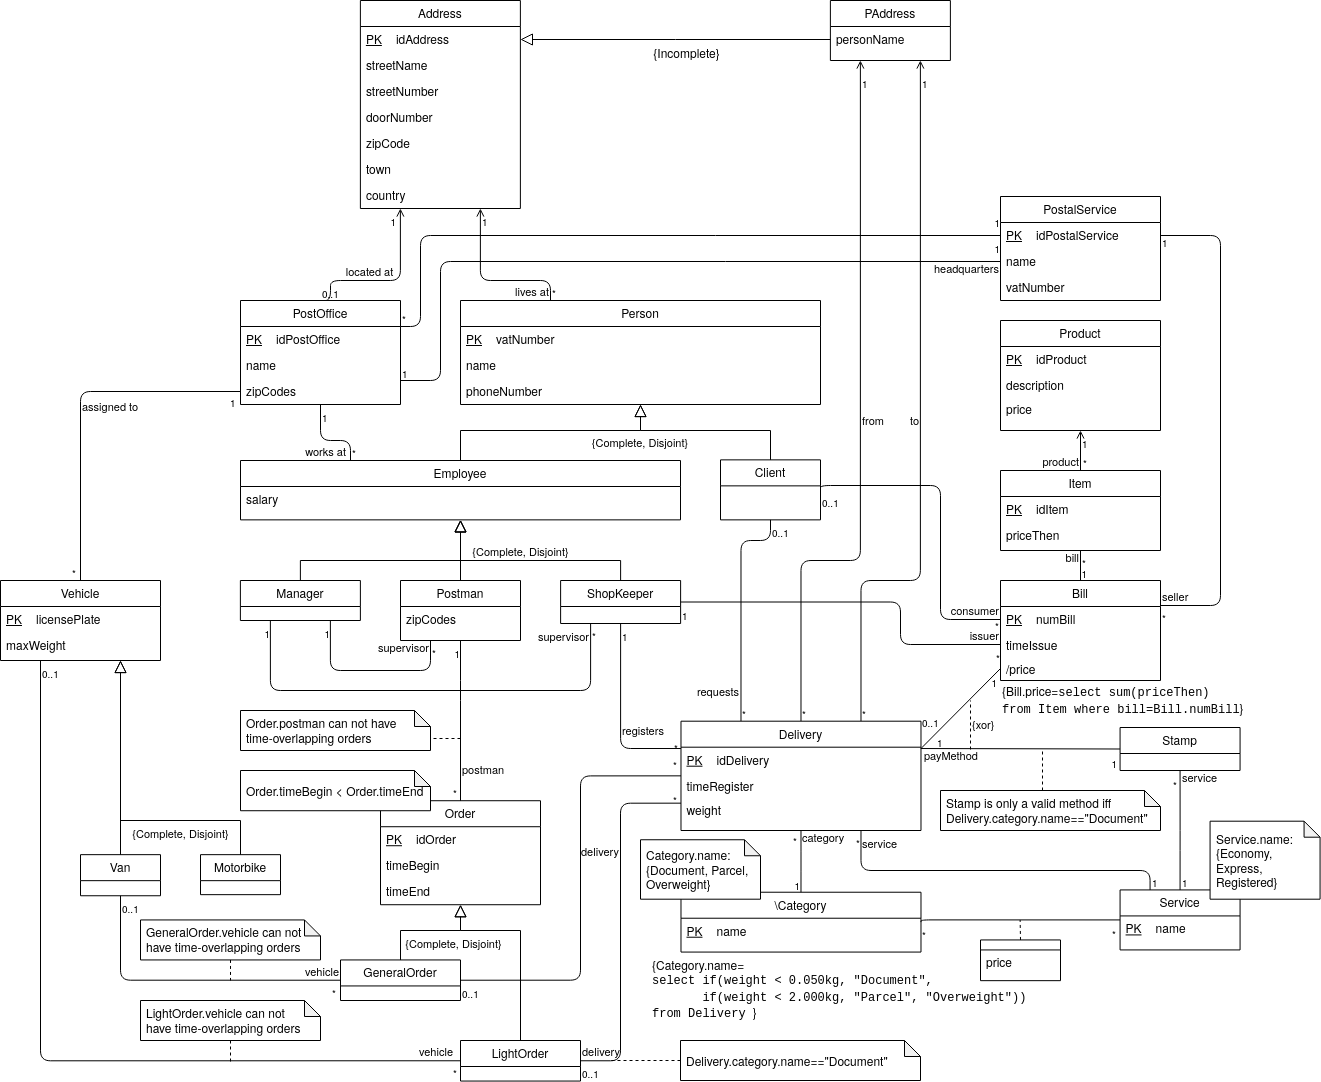
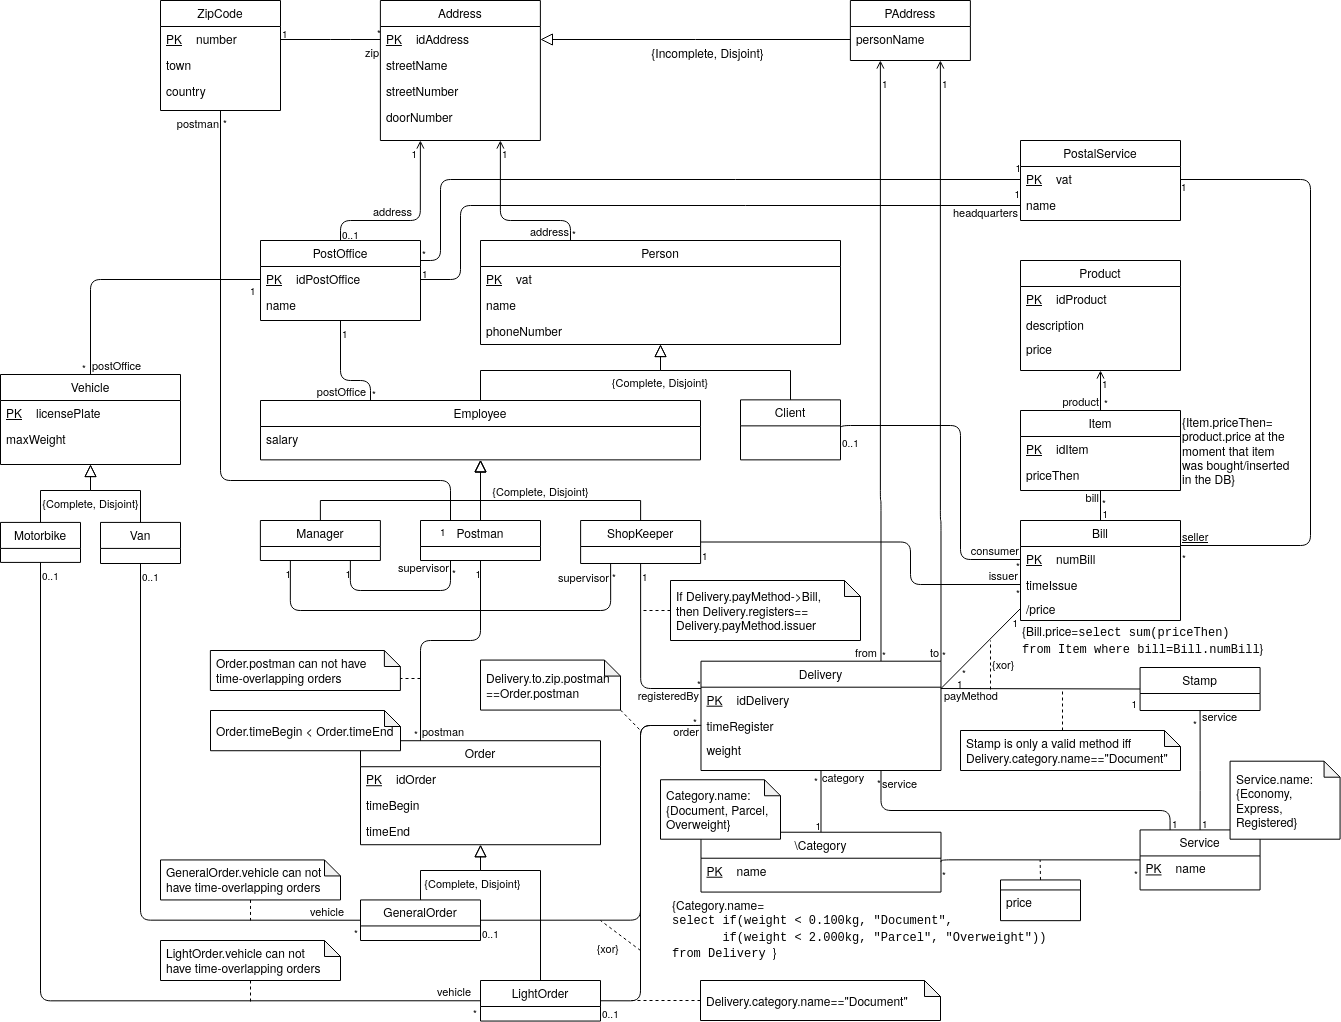
updated uml. copied content to report

diff --git a/report_delivery1.tex b/report_delivery1.tex
@@ -1,4 +1,4 @@
-\documentclass{article}
+\documentclass{article}[a4paper]
 % Hyperreferences
 \usepackage{hyperref}
 % Margins
@@ -12,12 +12,12 @@
 % Language
 \usepackage[english]{babel}
 % Section pagebreaks
-\usepackage{titlesec}
-\newcommand{\sectionbreak}{\clearpage}
-\newcommand{\sectionnobreak}{% for when I want a section that does not break
-  \global\toggletrue{afterpart}%
-  \section
-}
+%\usepackage{titlesec}
+%\newcommand{\sectionbreak}{\clearpage}
+%\newcommand{\sectionnobreak}{% for when I want a section that does not break
+%  \global\toggletrue{afterpart}%
+%  \section
+%}
 % Source code
 \usepackage{listings}
 \usepackage{xcolor}
@@ -86,12 +86,58 @@ T6G05\\
 \begingroup
 	\maketitle
 	\let\clearpage\relax
-	\setcounter{tocdepth}{2}
+	\setcounter{tocdepth}{3}
 	\tableofcontents
 \endgroup
-\section{Database context}
+\section{Introduction}
+This preliminary report further details the project we proposed, evidently showing some minor changes that reflect a more adequate representation of the database required to solve the problem of managing a Post Office, deliberately making little to no reference to the workings of a Postal Service given its complexity would greatly surpass recommendations. \par
+A postal service is made up of post offices, where each post office has its own set of employees, vehicles and other attributes. The deliveries each have elements that influence its price as well as the ways they may be delivered and paid for, all of which will be explained more thoroughly through this report.
+\section{General classes}
+\subsection{ZipCode}
+ZIP code, characterized by its number (which is also its principal key), town and country, as well as the postman in charge of distributing mail to postal addresses under that ZIP code.
+\subsection{Address}
+An address is identified by its unique ID, by the street name, street number, door number, postal code, town and country.
+\subsection{PAddress}
+A postal address extends an address by also mentioning a person name (addresser or addressee), thus being a subclass of Address. Besides mentioning an origin and destination, a delivery must also mention who the addresser and the addressee are, thus requiring a PAddress instead of an Address.
+\section{PostalService}
+A postal service has a unique ID, a name and a VAT number, besides having physical locations designated hereinafter post offices, one of them being the headquarters. In this project, a PostalService serves the main purpose of storing the VAT and name of the entity that sells goods to clients, which avoids the need for thorough description of the workings of a PostalService that are not directly handled by a PostOffice.
 \subsection{PostOffice}
-In all game modes, the controls are the same.
+Post offices are places of contact between the postal service and the clients, where services are provided and purchases take place. A PostOffice is associated with a single PostalService.\par
+It is uniquely identified by an ID, and characterized also by its address, a list of employees, and by the assigned vehicles. For this reason, it is directly connected to the classes PostalService, Address, Employee and Vehicle.
+\subsection{Vehicle}
+A vehicle is used to deliver mail and cannot be assigned to time-overlapping orders, given it can only fulfill an order at a time. It is uniquely identified by its license plate, and for each vehicle we know its capacity, that is, the maximum weight it can carry.
+\subsubsection{Motorbike}
+A motorbike is a vehicle which can be used to fulfill light orders, thus being a subclass of Vehicle.
+\subsubsection{Van}
+Like the motorbike, the van extends the class Vehicle, but unlike the motorbike, it can be used to deliver general orders.
+\section{Person}
+For every person we know the VAT number (also serving as a person ID), name, address, and phone number.
+\subsection{Client}
+A client is a person which may pay for a good or service via a Bill.
+\subsection{Employee}
+An employee is a person (thus a subclass of Person) that is employed by the company, which provides him/her with a salary. For every employee we know his base salary.
+\subsubsection{Manager}
+A manager is an employee who is responsible for monitoring a set of sales employees and postmen.
+\subsubsection{ShopKeeper}
+A shopKeeper is a sales Employee (thus extending the class Employee) who is responsible for processing sales and registering deliveries that were paid for at the PostOffice or mail collected from post boxes.
+\subsubsection{Postman}
+A postman is an employee (therefore being a subclass of Employee) responsible for home-to-home mail distribution. A postman is assigned a group of ZIP codes.
+\section{Delivery}
+A delivery is requested by the client and registered by a shopKeeper. \par
+Identifiable by its ID, each delivery keeps track of the time of registration, weight, and the postal addresses of the origin and destination (thus connecting this class to PAddress). A delivery’s price is determined not only by the type of service chosen (Economy, Express or Registered) but also by its category; it is classified as a Document if it weighs under 0.100kg, as Parcel if under 2.000kg or Overweight otherwise.\par
+Depending on the delivery, its payment can be done either by the purchase of a stamp (which is only valid should the delivery’s category be Document) and deposit at a postbox, or via a bill.
+\subsection{Order}
+An order corresponds to a request of transporting a deliverable to its destination.\par
+It is characterized by its identification number as well as by the postman assigned to its delivery, by the vehicle used for that end and by the scheduled time of departure from, and arrival to, the post office by the postman.\par
+It can either be a General Order or a Light Order depending on the category (and therefore on the weight) of the deliverables: light orders can only be used for deliveries which have Documents as its category.
+\subsection{Stamp}
+A stamp is an alternative to paying for a Document using a bill. A stamped document can be deposited in a postbox. Given stamps are specialized according to the service that will be used in transporting the Document, Stamp is associated to the class Service.
+\subsection{Bill}
+A bill can be used to buy products at a PostOffice, as well as to pay for any kind of deliverable. A bill is described by its bill number, price (which is the sum of prices of the items of the delivery), issue time, issuing shopKeeper, the client that paid for it and the seller, which is the company to which the client is paying for a delivery.
+\subsection{Product}
+Each product has a corresponding ID (similar to a barcode), description and current price. The list of all products make up the catalog of products the PostalService has for sale.
+\subsection{Item}
+An item is a particular instance of a product, for which a client paid a given sum. It is identifiable by its ID (similar to a serial number) and by its price at the moment it was bought.
 \section{UML}
 \begin{figure}[H] \centering
 	\includegraphics[angle=-90,scale=0.397]{uml}
